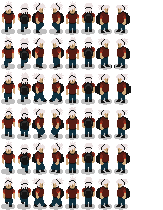
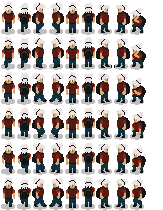
FEAT(player): add player interaction annimation

diff --git a/src/player/change_player_rect.c b/src/player/change_player_rect.c
@@ -35,6 +35,10 @@ static void change_player_rect_annimate(player_t *player)
 
 static void change_player_rect_idle(player_t *player)
 {
+    if (sfKeyboard_isKeyPressed(player->keys->interact.key) == sfTrue) {
+        player->rect.left = player->rect.width * 8;
+        return;
+    }
     if (player->keys->last_direction == DOWN)
         player->rect.left = player->rect.width * 4;
     if (player->keys->last_direction == UP)

diff --git a/src/init/glib/init_window.c b/src/init/glib/init_window.c
@@ -14,6 +14,6 @@ void init_window(rpg_t *rpg)
     window->height = 1080;
     window->title = WINDOW_NAME;
     window->framerate = 120;
-    window->style = sfClose | sfFullscreen;
+    window->style = sfClose;
     rpg->glib->window = gl_create_window(window);
 }
